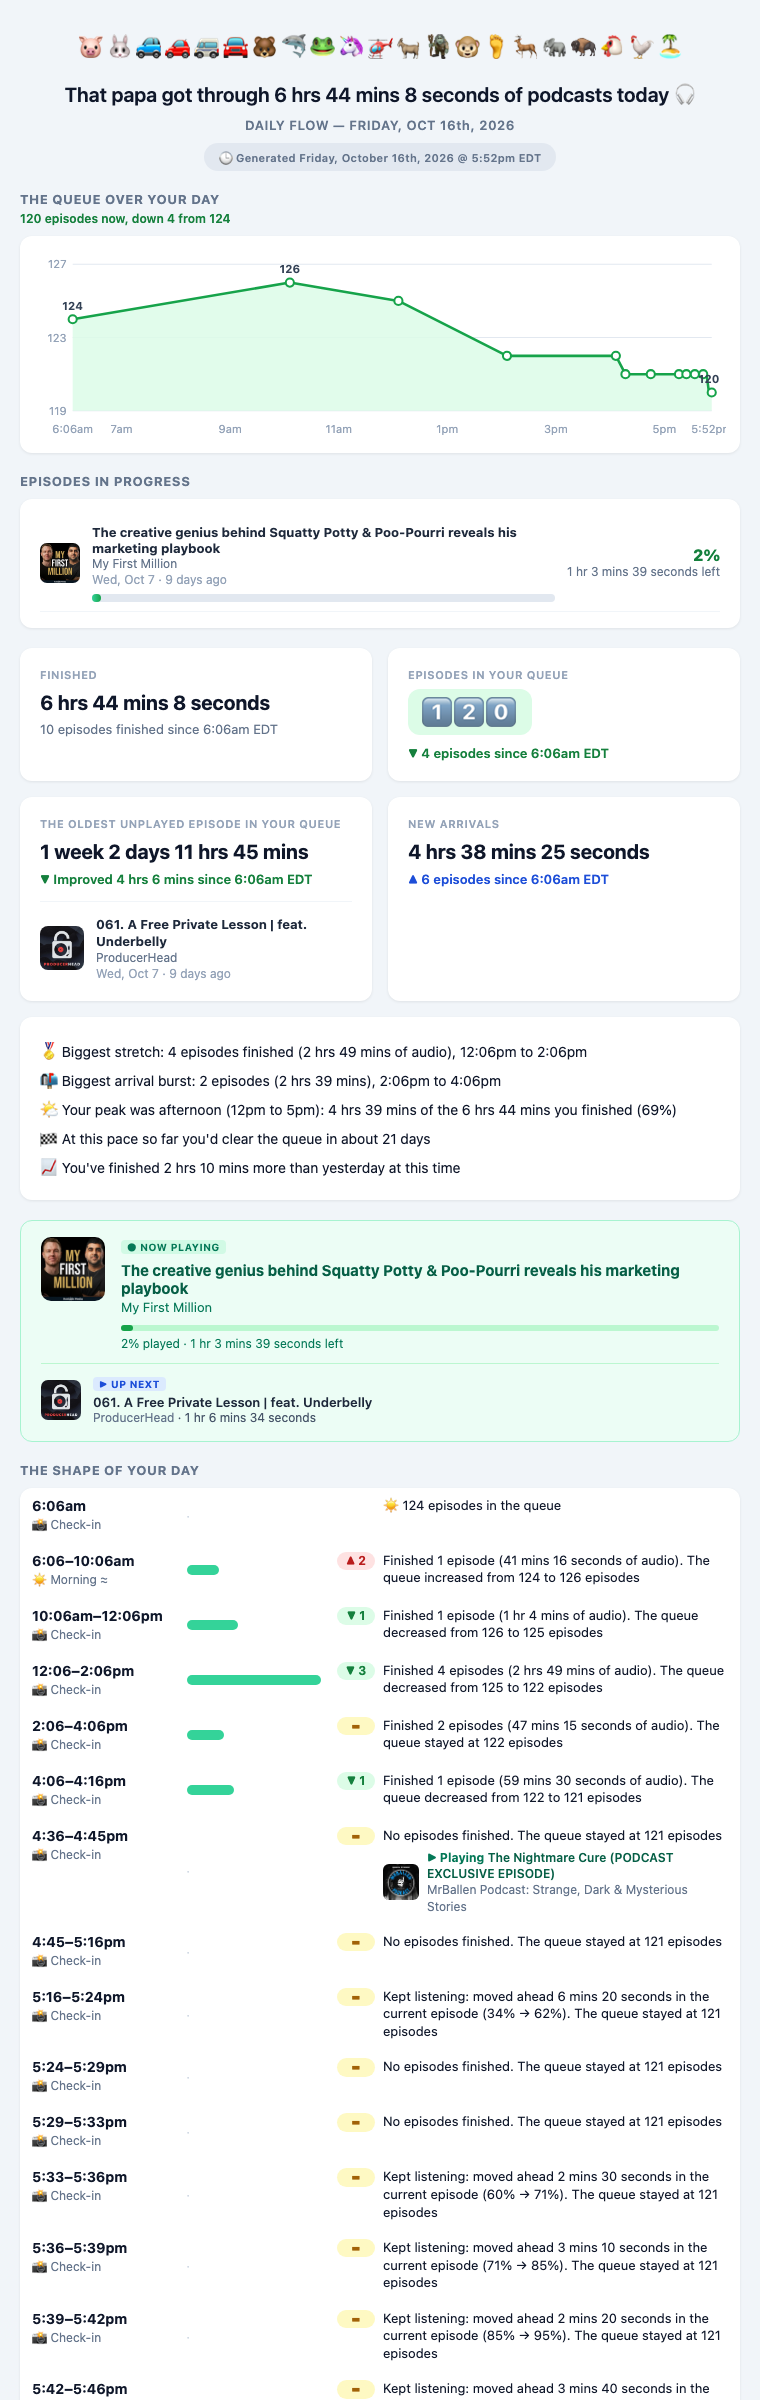
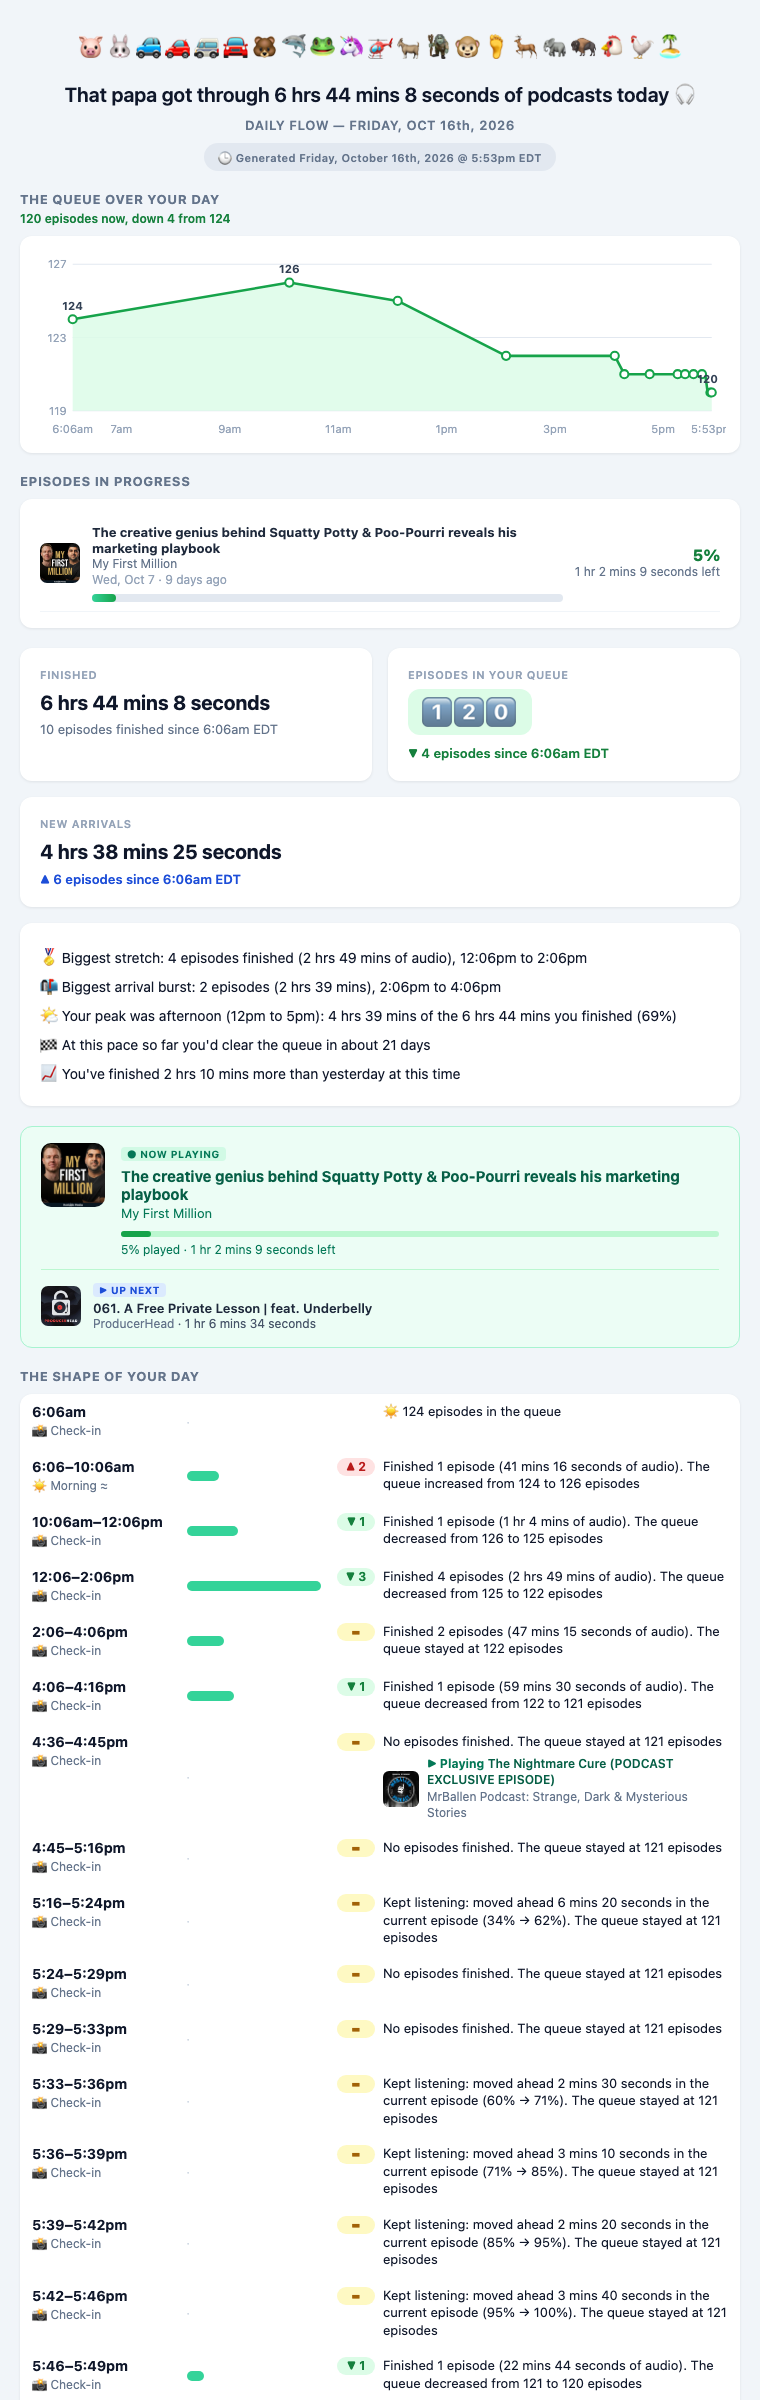
Flow web report: remove the oldest-unplayed-episode card
Three cards remain, with the odd one taking the whole row.

Changed region(s): [[0.0303, 0.3438, 0.9382, 1.0], [0.5447, 0.3438, 0.8474, 0.375], [0.9079, 0.1562, 0.9382, 0.1875]]

diff --git a/flow.py b/flow.py
@@ -84,19 +84,6 @@ def parse_fmt_seconds(text):
     return total
 
 
-def oldest_episode_from_run(d):
-    """The oldest unplayed episode - the one the 'behind' figure measures: the
-    oldest that has not been started, or the oldest of all if every one has."""
-    eps = d["queue"].get("episodes", [])
-    fresh = [e for e in eps if not e.get("in_progress")] or eps
-    dated = [e for e in fresh if e.get("pubdate")]
-    if not dated:
-        return None
-    e = min(dated, key=lambda x: x["pubdate"])
-    return {k: e.get(k) for k in ("title", "podcast", "episode_url", "podcast_url", "artwork_url", "pubdate")
-            if e.get(k) is not None}
-
-
 def in_progress_episodes(d, top=8):
     """Episodes you have started but not finished: how far through each, and
     how much is left."""
@@ -175,9 +162,6 @@ def snapshot_from_run(d, label, source="live"):
         snap["now_playing"] = {k: np.get(k) for k in (
             "title", "podcast", "episode_url", "podcast_url", "artwork_url",
             "elapsed_seconds", "duration_seconds", "remaining_fmt") if np.get(k) is not None}
-    oldest_ep = oldest_episode_from_run(d)
-    if oldest_ep:
-        snap["oldest_episode"] = oldest_ep
     started = in_progress_episodes(d)
     if started:
         snap["in_progress"] = started
@@ -339,8 +323,6 @@ def summarize_day(history, day, tz=None):
         history, day, tz, cutoff=day_offset(last, tz))
     started = [sn for sn in snaps if sn.get("in_progress")]
     out["in_progress_snapshot"] = started[-1] if started else None
-    olds = [sn for sn in snaps if sn.get("oldest_episode")]
-    out["oldest_episode"] = olds[-1]["oldest_episode"] if olds else None
     shows = [sn for sn in snaps if sn.get("by_show")]
     out["by_show_snapshot"] = shows[-1] if shows else None
     playing = [sn for sn in snaps if sn.get("now_playing")]
@@ -883,37 +865,13 @@ def _card(label, value, sub="", hint="", value_html=None, sub_html=None, extra_h
     )
 
 
-def oldest_episode_html(ep, tz=None):
-    """The oldest unplayed episode itself: artwork, linked title and show, and
-    when it was published."""
-    if not ep or not ep.get("title"):
-        return ""
-    art = ""
-    if ep.get("artwork_url"):
-        img = (f'<img src="{html.escape(ep["artwork_url"])}" width="44" height="44" '
-               'style="border-radius:8px;display:block;" alt="">')
-        link = ep.get("episode_url") or ep.get("podcast_url")
-        art = f'<a href="{html.escape(link)}" target="_blank">{img}</a>' if link else img
-    when = ""
-    if ep.get("pubdate"):
-        age = (utcnow() - parse_utc(ep["pubdate"])).total_seconds()
-        when = (f'<div style="font-size:12px;color:#94a3b8;margin-top:1px;">'
-                f'{html.escape(published_label(ep["pubdate"], tz))} · {html.escape(ago_phrase(age))}</div>')
-    return (
-        '<div style="display:flex;gap:12px;align-items:center;margin-top:14px;padding-top:14px;'
-        'border-top:1px solid #f1f5f9;">'
-        f'<div style="flex:0 0 44px;">{art}</div>'
-        '<div style="flex:1;min-width:0;">'
-        f'<div style="font-size:13px;font-weight:700;line-height:1.3;">{_link(ep["title"], ep.get("episode_url"), "#1e293b")}</div>'
-        f'<div style="font-size:12px;color:#64748b;">{_link(ep.get("podcast"), ep.get("podcast_url"), "#64748b")}</div>'
-        f'{when}</div></div>'
-    )
-
-
 def card_grid(cards):
     """Two cards across, every row as tall as its tallest card."""
+    body = "".join(cards[:-1] if len(cards) % 2 else cards)
+    if len(cards) % 2:
+        body += f'<div style="grid-column:1 / -1;">{cards[-1]}</div>'   # an odd one out takes the whole row
     return ('<div style="display:grid;grid-template-columns:1fr 1fr;gap:16px;margin-bottom:16px;">'
-            + "".join(cards) + "</div>")
+            + body + "</div>")
 
 
 def keycaps(n):
@@ -957,18 +915,6 @@ def arrivals_line(count, arrived_seconds, listened_seconds, since):
     fg = ARRIVAL_COLORS[tone]
     noun = f"{count} episode" + ("" if count == 1 else "s")
     return f'<span style="color:{fg};font-weight:600;">\u25b2 {html.escape(noun)} {html.escape(since)}</span>'
-
-
-def age_line(delta, since):
-    """The oldest-episode change, colored like the queue card: green when the
-    oldest unplayed episode is newer than at the start, yellow when unchanged,
-    red when it has slipped further behind."""
-    tone = "better" if round(delta) < 0 else ("worse" if round(delta) > 0 else "same")
-    _, fg, arrow = QUEUE_TONES[tone]
-    text = {"better": f"{arrow} Improved {dur_n(delta)} {since}",
-            "same": f"{arrow} No change {since}",
-            "worse": f"{arrow} Slipped {dur_n(delta)} {since}"}[tone]
-    return f'<span style="color:{fg};font-weight:600;">{html.escape(text)}</span>'
 
 
 def queue_card(qs, qe, tz=None):
@@ -1402,9 +1348,6 @@ def render_day_html(s, tz=None, generated=None, d=None):
         _card("Finished", dur(s["listened_seconds"]),
               f"{s['listened_count']} episode{'' if s['listened_count'] == 1 else 's'} finished {since_label(qs, tz)}"),
         queue_card(qs, qe, tz),
-        _card("The oldest unplayed episode in your queue", dur_n(qe['behind_seconds'], 4),
-              sub_html=age_line(s["behind_delta"], since_label(qs, tz)),
-              extra_html=oldest_episode_html(oldest_episode_from_run(d) if d else s.get("oldest_episode"), tz)),
         _card("New arrivals", dur(s["arrivals_seconds"]),
               sub_html=arrivals_line(s["arrivals_count"], s["arrivals_seconds"], s["listened_seconds"],
                                      since_label(qs, tz))),

diff --git a/tests/test_flow.py b/tests/test_flow.py
@@ -396,19 +396,8 @@ class StoryTests(unittest.TestCase):
     def test_every_card_says_since_the_same_time(self):
         s = flow.summarize_day(self.history, datetime.date(2026, 10, 16), NY)
         page = flow.render_day_html(s, NY)
-        self.assertEqual(page.count("since 9:00am EDT"), 4)  # listened, queue, oldest, arrivals
+        self.assertEqual(page.count("since 9:00am EDT"), 3)  # finished, queue, arrivals
         self.assertIn("episodes finished since 9:00am EDT", page)
-
-    def test_oldest_episode_line_is_green_yellow_or_red_like_the_queue(self):
-        since = "since 9:00am EDT"
-        better = flow.age_line(-18000, since)
-        self.assertIn("#15803d", better)
-        self.assertIn("▼ Improved 5 hrs", better)
-        self.assertIn("#a16207", flow.age_line(0, since))
-        self.assertIn("▬ No change", flow.age_line(0, since))
-        worse = flow.age_line(7200, since)
-        self.assertIn("#b91c1c", worse)
-        self.assertIn("▲ Slipped 2 hrs", worse)
 
     def test_every_card_value_is_the_same_size_and_never_wraps(self):
         for text in ("6 hrs 21 mins", "1 week 2 days 10 hrs 48 mins"):
@@ -499,7 +488,7 @@ class StoryTests(unittest.TestCase):
         for needle in ("What's piling up", "Kraken Audio", "☀ Morning", "🌙 Evening", "Biggest stretch"):
             self.assertIn(needle, chat)
         page = flow.render_day_html(self.s, NY)
-        for needle in ("What&rsquo;s piling up", "Pregame", "The oldest unplayed episode in your queue"):
+        for needle in ("What&rsquo;s piling up", "Pregame", "The queue over your day"):
             self.assertIn(needle, page)
         for gone in ("added up across today", "start of day to now", "how old your oldest",
                      "new episodes that landed", "estimated"):
@@ -786,30 +775,23 @@ class ChartAndProgressTests(unittest.TestCase):
         self.assertEqual(flow.snapshot_from_run(d, "pulse")["in_progress"][0]["pct"], 75)
 
 
-class OldestEpisodeTests(unittest.TestCase):
-    def test_the_oldest_unplayed_episode_is_the_oldest_one_not_started(self):
-        d = {"queue": {"episodes": [
-            {"title": "Started Long Ago", "podcast": "A", "pubdate": "2026-10-01T07:00:00", "in_progress": True},
-            {"title": "Oldest Fresh", "podcast": "B", "pubdate": "2026-10-06T07:00:00", "in_progress": False,
-             "episode_url": "https://e/b", "artwork_url": "https://a/b.jpg"},
-            {"title": "Newer", "podcast": "C", "pubdate": "2026-10-12T07:00:00", "in_progress": False},
-        ]}}
-        ep = flow.oldest_episode_from_run(d)
-        self.assertEqual((ep["title"], ep["podcast"]), ("Oldest Fresh", "B"))
-        self.assertEqual(flow.snapshot_from_run(dict(minimal_run_json(), queue=dict(minimal_run_json()["queue"], episodes=d["queue"]["episodes"])), "pulse")["oldest_episode"]["title"], "Oldest Fresh")
-
-    def test_the_card_shows_the_episode_with_artwork_links_and_date(self):
-        ep = {"title": "Oldest Fresh", "podcast": "B", "episode_url": "https://e/b", "podcast_url": "https://p/b",
-              "artwork_url": "https://a/b.jpg", "pubdate": "2026-10-06T07:00:00"}
-        block = flow.oldest_episode_html(ep, NY)
-        for needle in ('src="https://a/b.jpg"', 'href="https://e/b"', 'href="https://p/b"', "Tue, Oct 6 · "):
-            self.assertIn(needle, block)
-        self.assertEqual(flow.oldest_episode_html(None), "")
-
+class CardGridTests(unittest.TestCase):
     def test_cards_sit_in_an_equal_height_grid(self):
         grid = flow.card_grid(["<div>a</div>", "<div>b</div>"])
         self.assertIn("display:grid", grid)
         self.assertNotIn("<td", grid)
+        self.assertNotIn("grid-column", grid)
+
+    def test_an_odd_card_takes_the_whole_row(self):
+        grid = flow.card_grid(["<div>a</div>", "<div>b</div>", "<div>c</div>"])
+        self.assertIn('<div style="grid-column:1 / -1;"><div>c</div></div>', grid)
+
+    def test_the_page_has_three_cards_and_no_oldest_episode_card(self):
+        history = [snap("2026-10-16T09:00", "morning", 120), snap("2026-10-16T12:00", "manual", 118, played_seconds=600)]
+        page = flow.render_day_html(flow.summarize_day(history, datetime.date(2026, 10, 16), NY), NY)
+        for card in ("Finished", "Episodes in your queue", "New arrivals"):
+            self.assertIn(card, page)
+        self.assertNotIn("oldest unplayed episode", page.lower())
 
 
 class RenderTests(unittest.TestCase):
